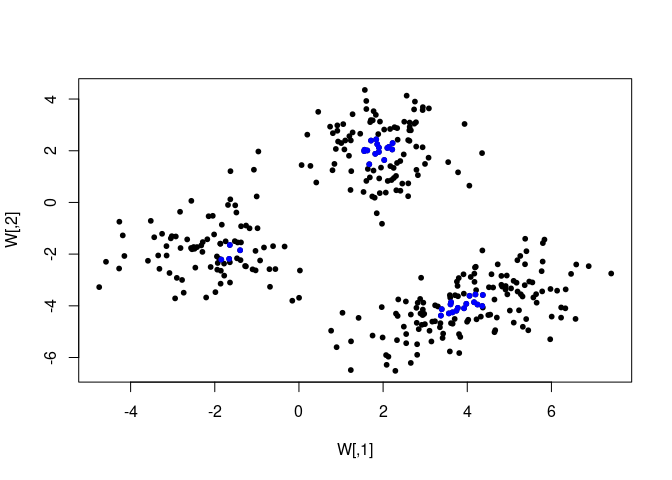
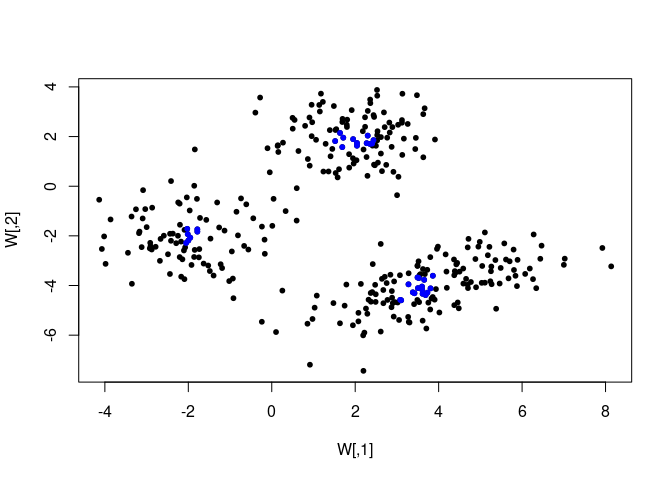
better description

diff --git a/README.md b/README.md
@@ -7,20 +7,25 @@
 
 <!-- badges: end -->
 
-The goal of idld is to …
+The goal of idld is to provide the necesary functions to calculate the
+integrated local dual depth in multivariate and functional data cases.
 
 ## Installation
 
 You can install the released version of idld from
-[CRAN](https://CRAN.R-project.org) with:
+[GITHUB](https://www.github.com) with:
 
 ``` r
-install.packages("idld")
+install.package("remote")
+remote::install_github("lfernandezpiana/idld")
 ```
 
-## Example
+## Multivariate Example
 
-This is a basic example which shows you how to solve a common problem:
+This is a basic multivariate example in \(\mathbb{R}^2\) which shows how
+to use the idld\_m function to calculate the integrated dual local
+depth. In the plot below, blue points represents the local depth central
+region.
 
 ``` r
 library(idld)
@@ -38,30 +43,3 @@ points(W[local_depth_center_region,], col="blue", pch=20)
 ```
 
 <img src="man/figures/README-example-1.png" width="100%" />
-
-What is special about using `README.Rmd` instead of just `README.md`?
-You can include R chunks like so:
-
-``` r
-summary(cars)
-#>      speed           dist       
-#>  Min.   : 4.0   Min.   :  2.00  
-#>  1st Qu.:12.0   1st Qu.: 26.00  
-#>  Median :15.0   Median : 36.00  
-#>  Mean   :15.4   Mean   : 42.98  
-#>  3rd Qu.:19.0   3rd Qu.: 56.00  
-#>  Max.   :25.0   Max.   :120.00
-```
-
-You’ll still need to render `README.Rmd` regularly, to keep `README.md`
-up-to-date. `devtools::build_readme()` is handy for this. You could also
-use GitHub Actions to re-render `README.Rmd` every time you push. An
-example workflow can be found here:
-<https://github.com/r-lib/actions/tree/master/examples>.
-
-You can also embed plots, for example:
-
-<img src="man/figures/README-pressure-1.png" width="100%" />
-
-In that case, don’t forget to commit and push the resulting figure
-files, so they display on GitHub and CRAN.
